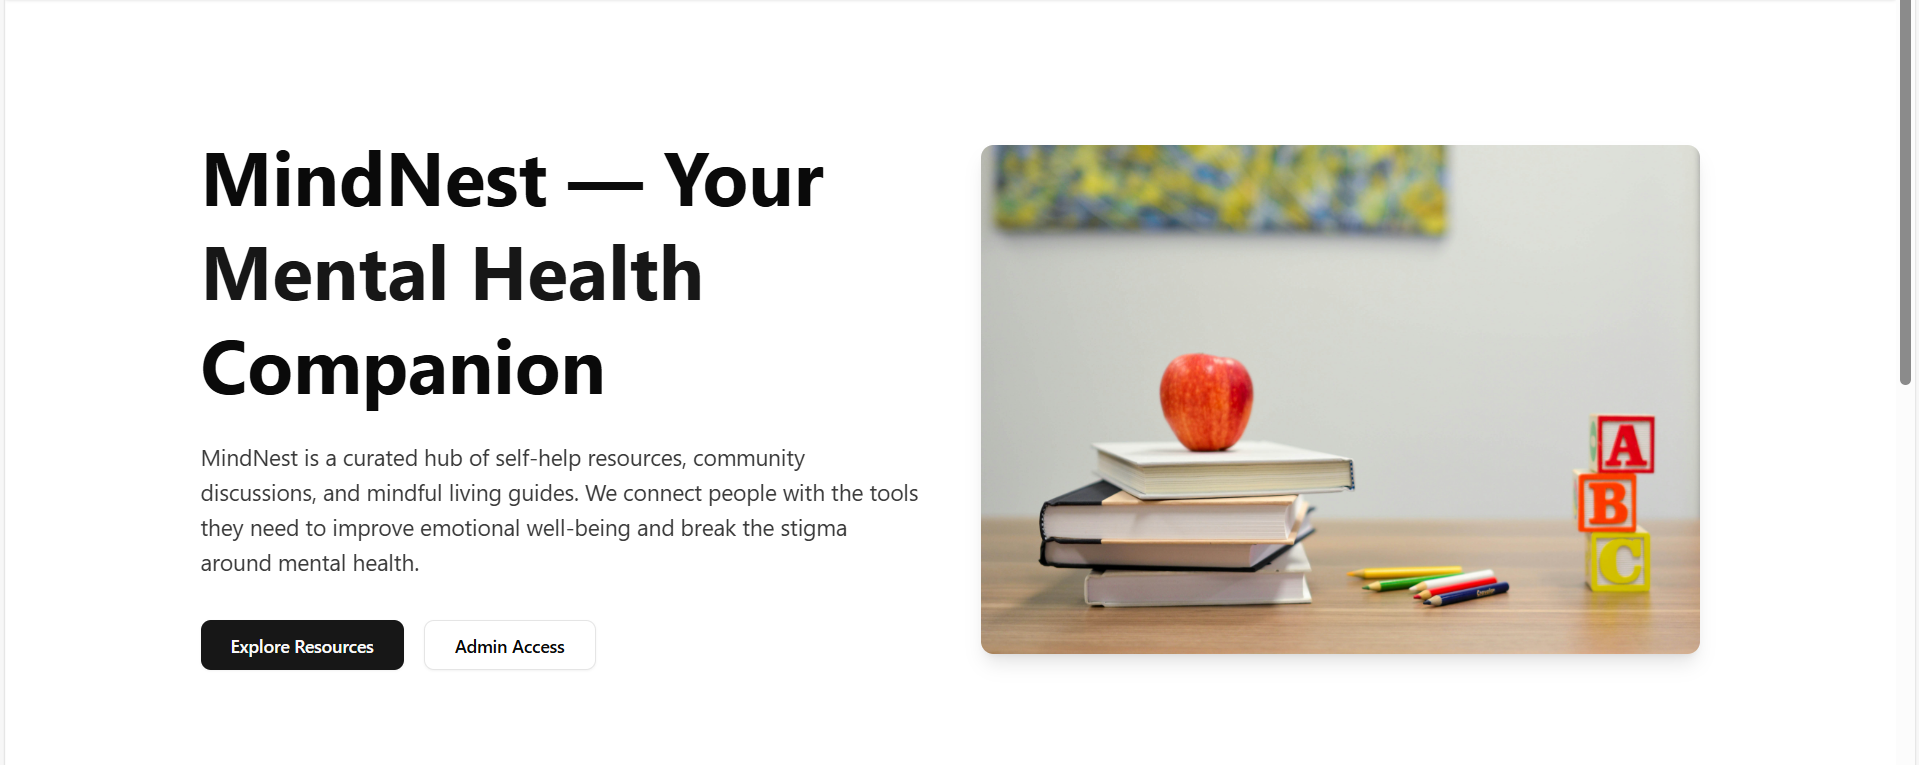
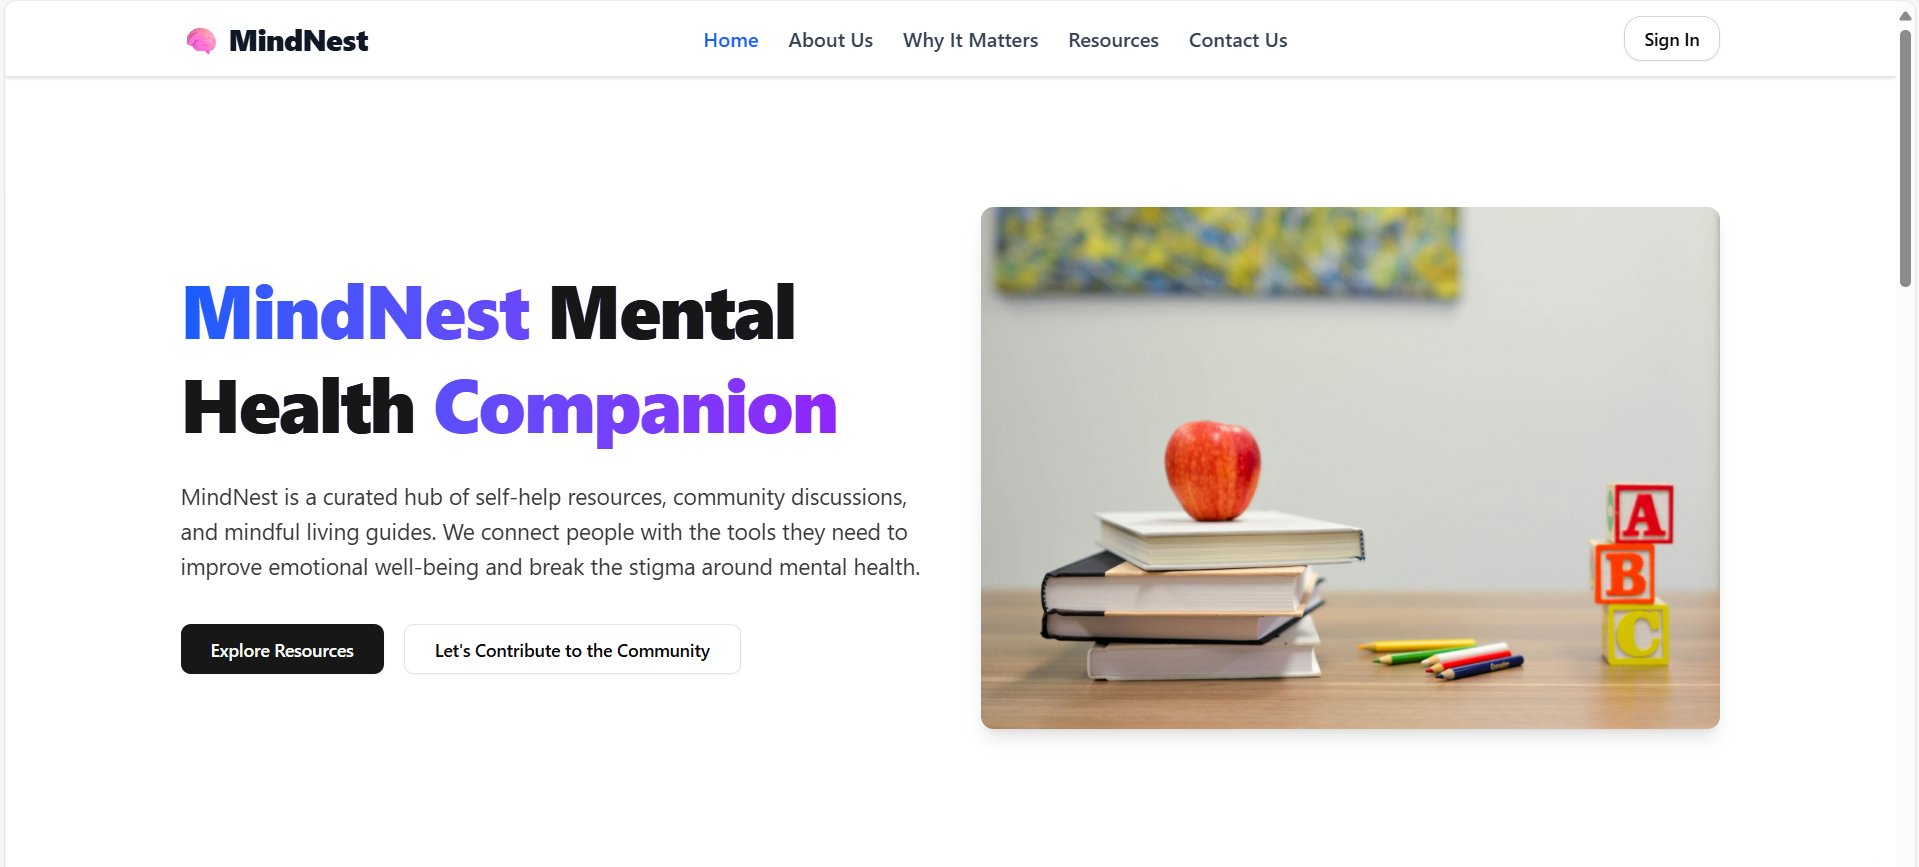
readme updated

diff --git a/README.md b/README.md
@@ -1,6 +1,7 @@
 # 🧠 MindNest — Your Mental Health Companion
 
-![MindNest Preview](Home.png)
+![MindNest Preview](HOME.png)
+![About Us](HOME1.png)
 
 MindNest is a curated hub of **self-help resources**, **community discussions**, and **mindful living guides**.  
 We connect people with the tools they need to improve emotional well-being and **break the stigma** around mental health.
@@ -44,3 +45,4 @@ We connect people with the tools they need to improve emotional well-being and *
 ```bash
 git clone https://github.com/PRATYAKSH15/MindNest.git
 cd mindnest
+
